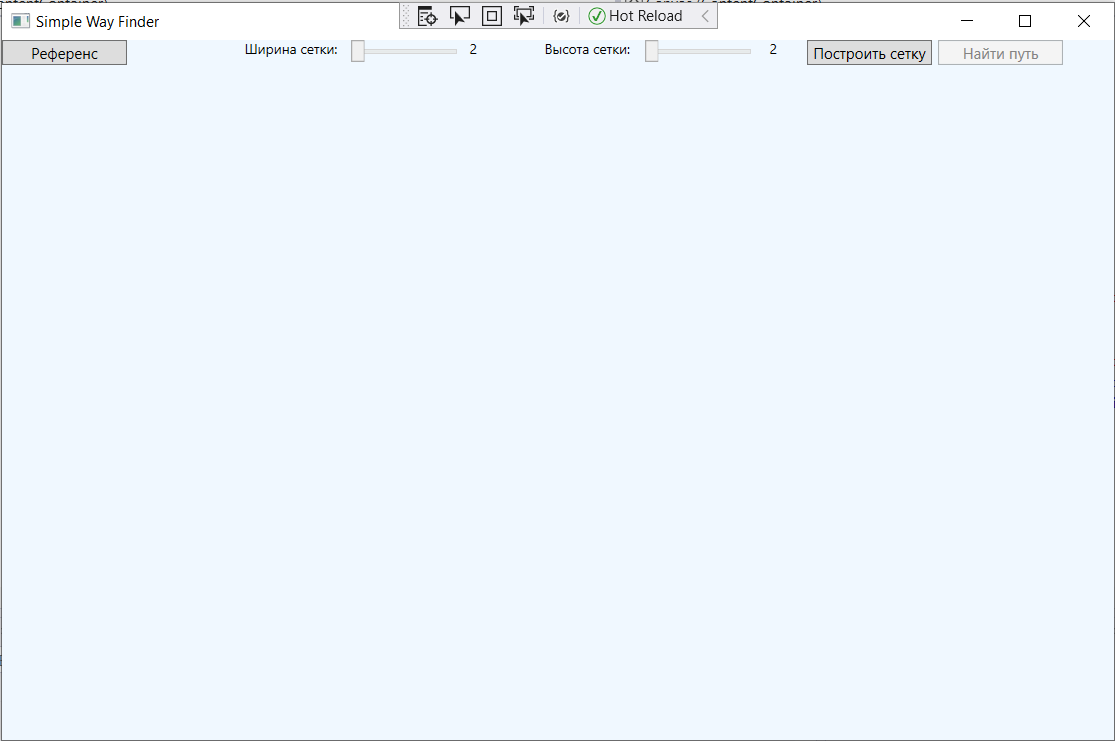
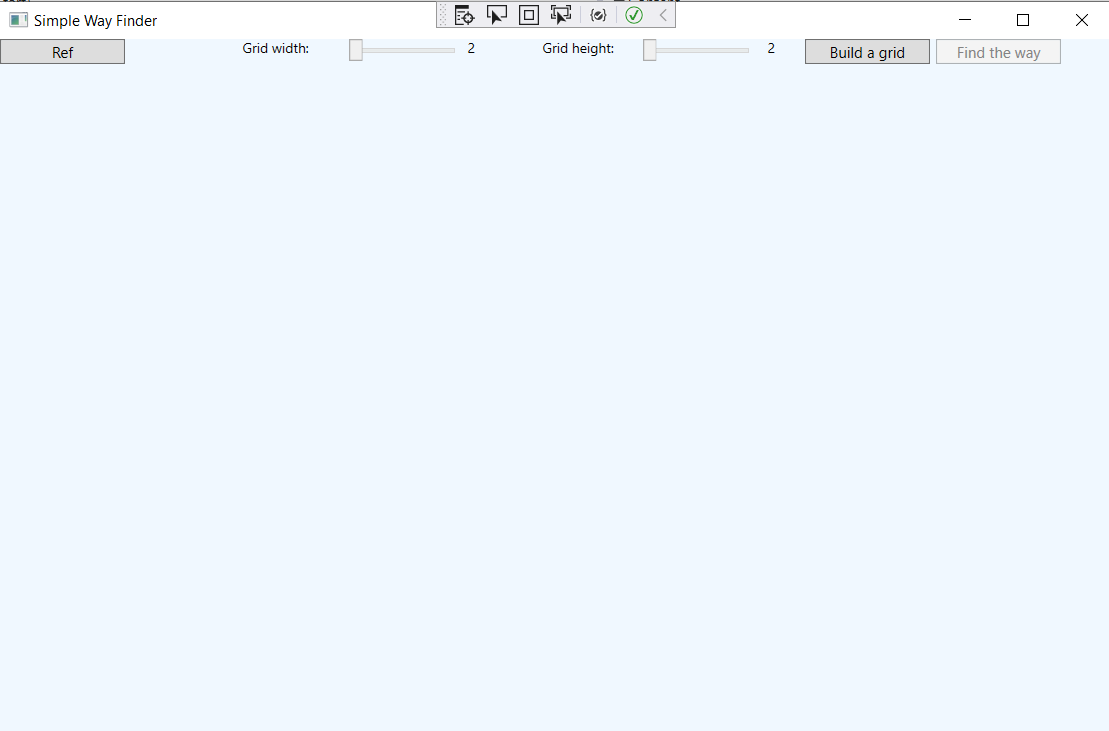
project/readme updated

diff --git a/SimpleWayFinder/SimpleWayFinder/MainWindow.xaml b/SimpleWayFinder/SimpleWayFinder/MainWindow.xaml
@@ -6,7 +6,7 @@
         mc:Ignorable="d"
         Title="Simple Way Finder" Width="904" MinWidth="900" MinHeight="450">
     <Canvas x:Name="ContentContainer" Background="AliceBlue">
-        <Button x:Name="buttonOpenRef" Width="100" Height="20" Content="Референс" Click="buttonOpenRef_Click"/>
+        <Button x:Name="buttonOpenRef" Width="100" Height="20" Content="Ref" Click="buttonOpenRef_Click"/>
         <Image x:Name="imgRef" Canvas.Top="25" Stretch="Fill"/>
         <Canvas x:Name="wayGrid" Margin="2" Canvas.Top="25" Background="Transparent">
             
@@ -14,11 +14,11 @@
         <Label x:Name="tbSliderCol" Canvas.Left="369" Height="26" Width="30" FontSize="11" Canvas.Top="-6" Content="2"/>
         <Label x:Name="tbSliderRow" Canvas.Left="609" Height="26" Width="30" FontSize="11" Canvas.Top="-6" Content="2"/>
         <Slider x:Name="sliderCol" Canvas.Left="279" Width="90" Minimum="2" Maximum="100" SmallChange="1" Value="2" Height="20" ValueChanged="sliderCol_ValueChanged" IsSnapToTickEnabled="True"/>
-        <Label Content="Ширина сетки:" Canvas.Left="189" Height="26" Width="85" FontSize="11" Canvas.Top="-6"/>
-        <Label Content="Высота сетки:" Canvas.Left="429" Height="26" Width="80" FontSize="11" Canvas.Top="-6"/>
+        <Label Content="Grid width:" Canvas.Left="189" Height="26" Width="85" FontSize="11" Canvas.Top="-6"/>
+        <Label Content="Grid height:" Canvas.Left="429" Height="26" Width="80" FontSize="11" Canvas.Top="-6"/>
         <Slider x:Name="sliderRow" Canvas.Left="514" Width="90" Minimum="2" Maximum="100" SmallChange="1" Value="2" Height="20" ValueChanged="sliderRow_ValueChanged" IsSnapToTickEnabled="True"/>
-        <Button x:Name="buttonCreateGrid" Width="100" Height="20" Content="Построить сетку" Canvas.Left="644" Click="buttonCreateGrid_Click"/>
-        <Button x:Name="buttonStart" Width="100" Height="20" Content="Найти путь" Canvas.Left="749" Click="buttonStart_Click"/>
+        <Button x:Name="buttonCreateGrid" Width="100" Height="20" Content="Build a grid" Canvas.Left="644" Click="buttonCreateGrid_Click"/>
+        <Button x:Name="buttonStart" Width="100" Height="20" Content="Find the way" Canvas.Left="749" Click="buttonStart_Click"/>
     </Canvas>
 
 </Window>

diff --git a/SimpleWayFinder/SimpleWayFinder/ColorCell.xaml.cs b/SimpleWayFinder/SimpleWayFinder/ColorCell.xaml.cs
@@ -31,7 +31,7 @@ namespace SimpleWayFinder
                     Background = Brushes.Transparent;
                     break;
                 case CellStates.OBSTACLE:
-                    Background = Brushes.Black;
+                    Background = Brushes.Aquamarine;
                     break;
                 case CellStates.START:
                     Background = Brushes.Blue;

diff --git a/README.md b/README.md
@@ -1,1 +1,12 @@
-# Hello, World!# SimpleWayFinder
+# SimpleWayFinder | C# | WPF app
+
+*An educational project.* This program will help you to **find the shortest way** by using reference picture.
+
+Let's take a look:
+*You may see a screen like this after launching this application.*
+![Initial start](/pic/idle.png)
+
+*Then you can add a reference picture*
+![Initial start](/pic/ref.png)
+
+*Holding down the right mouse button you can draw the obstacles*
